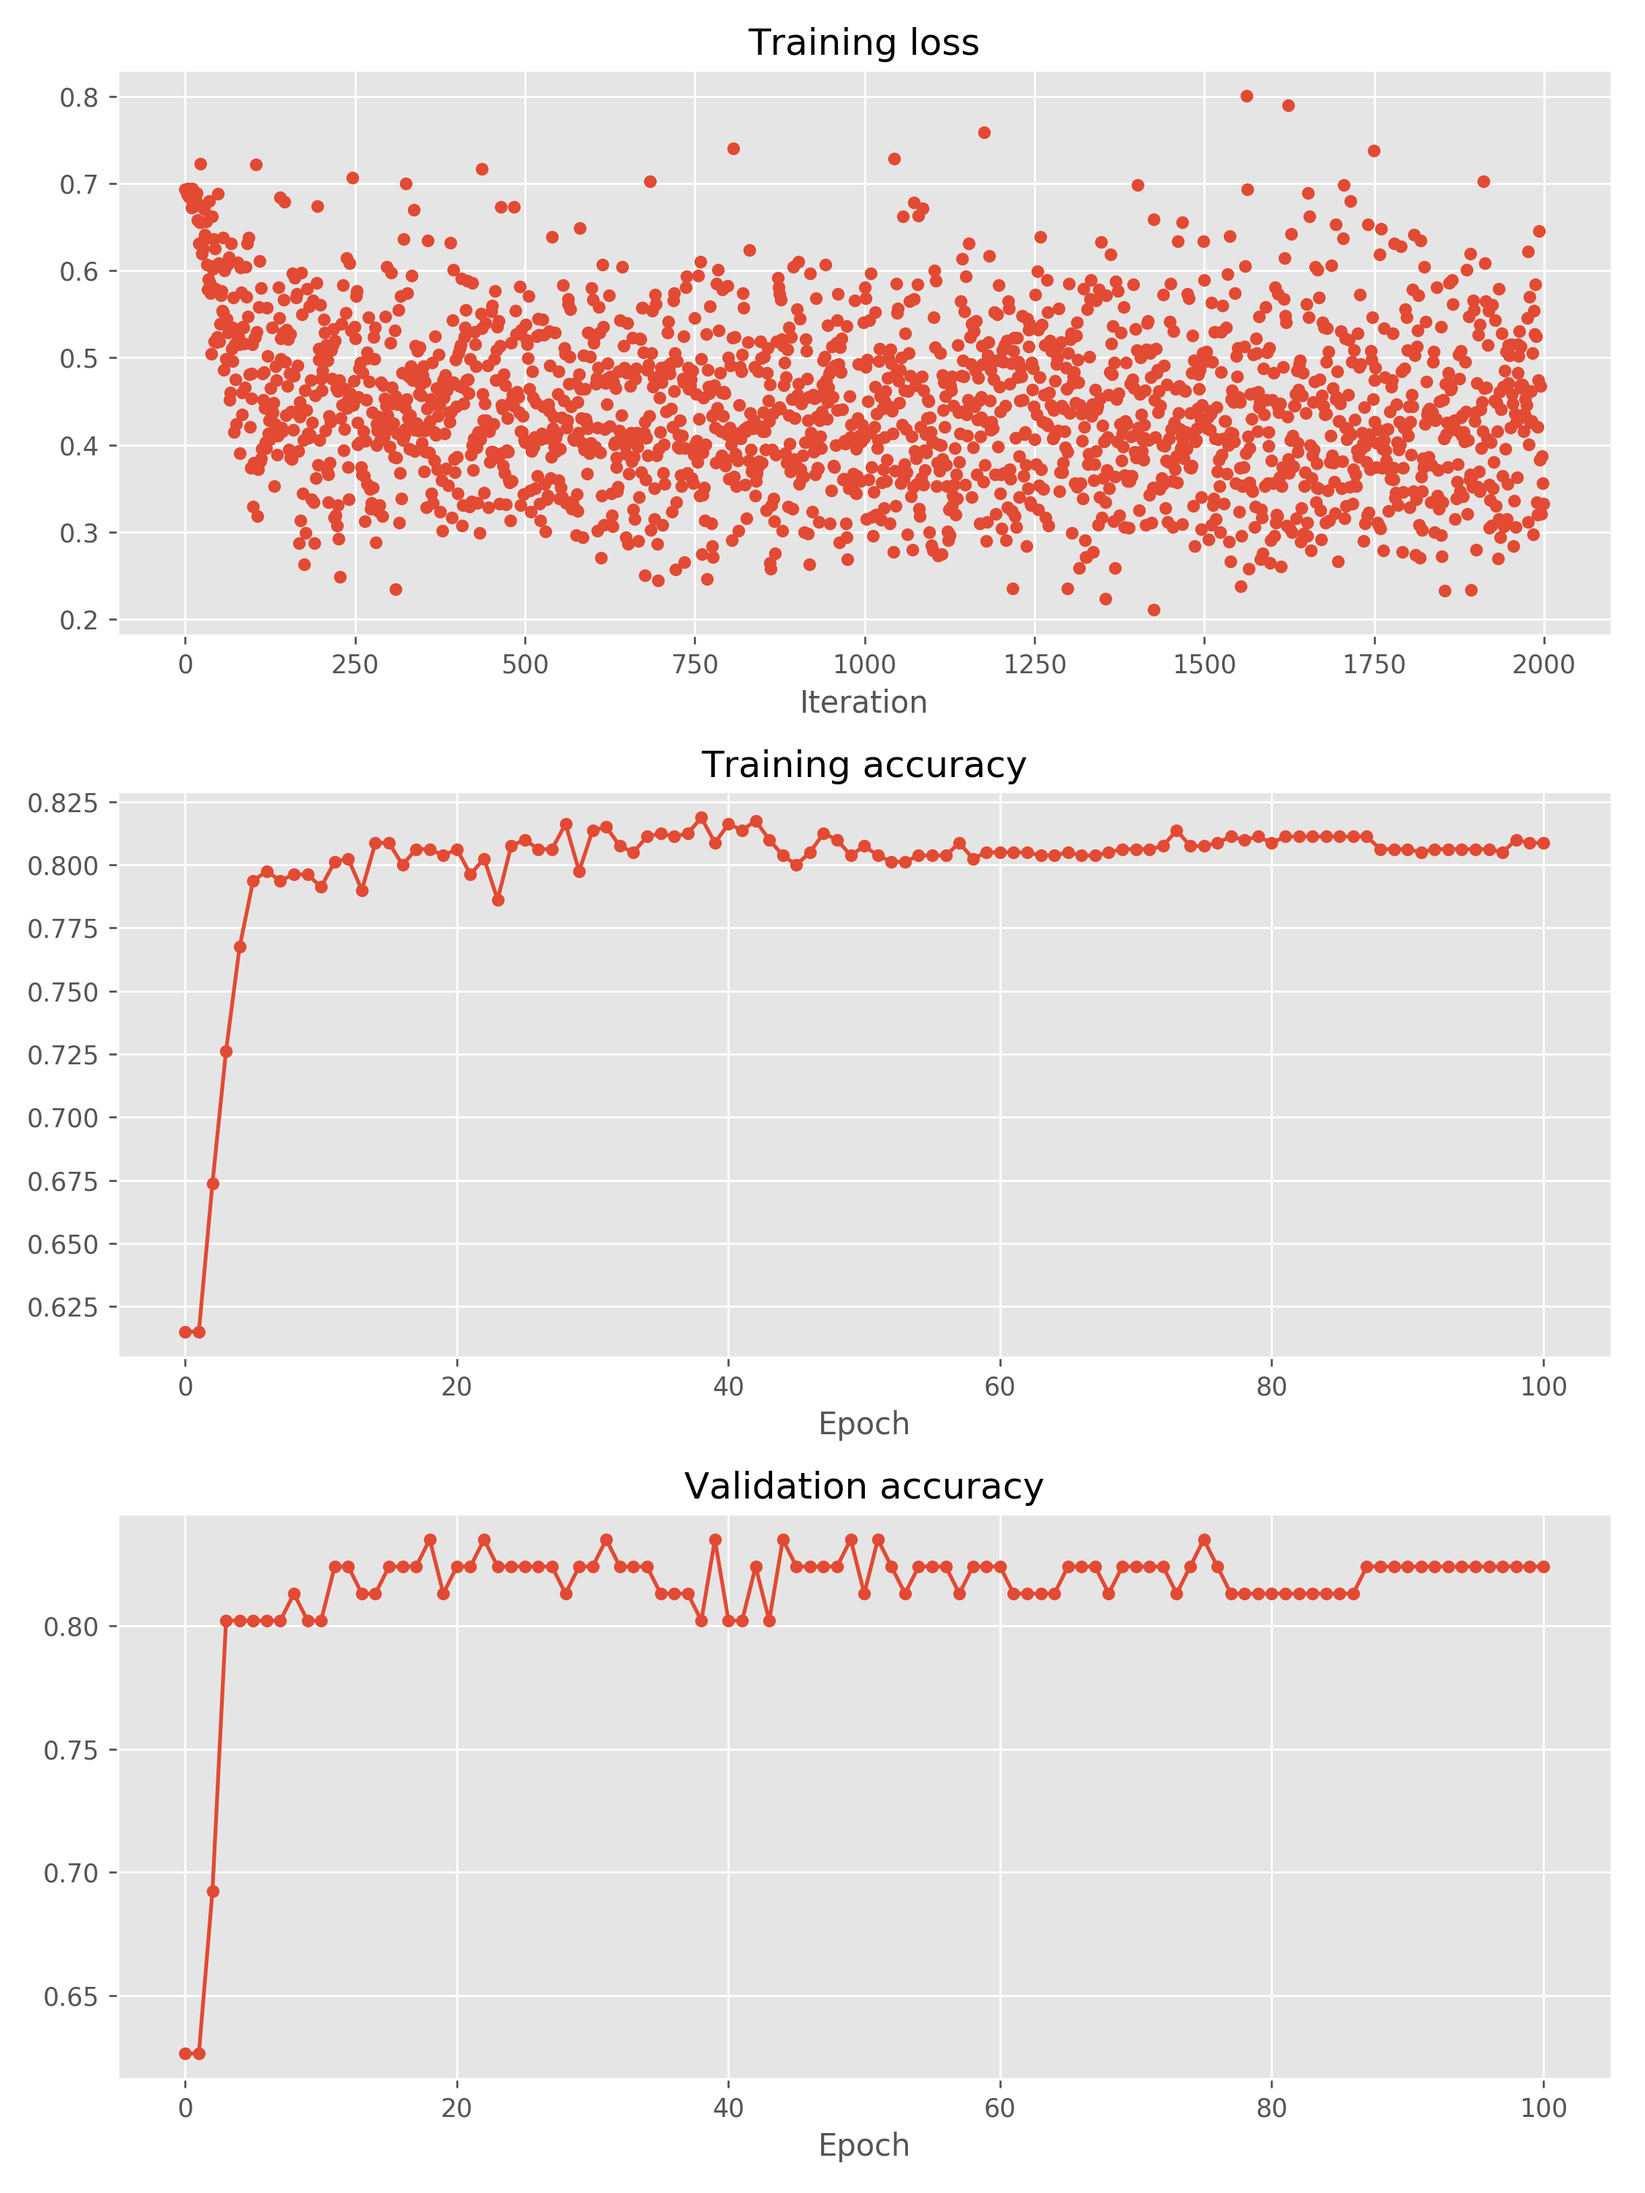
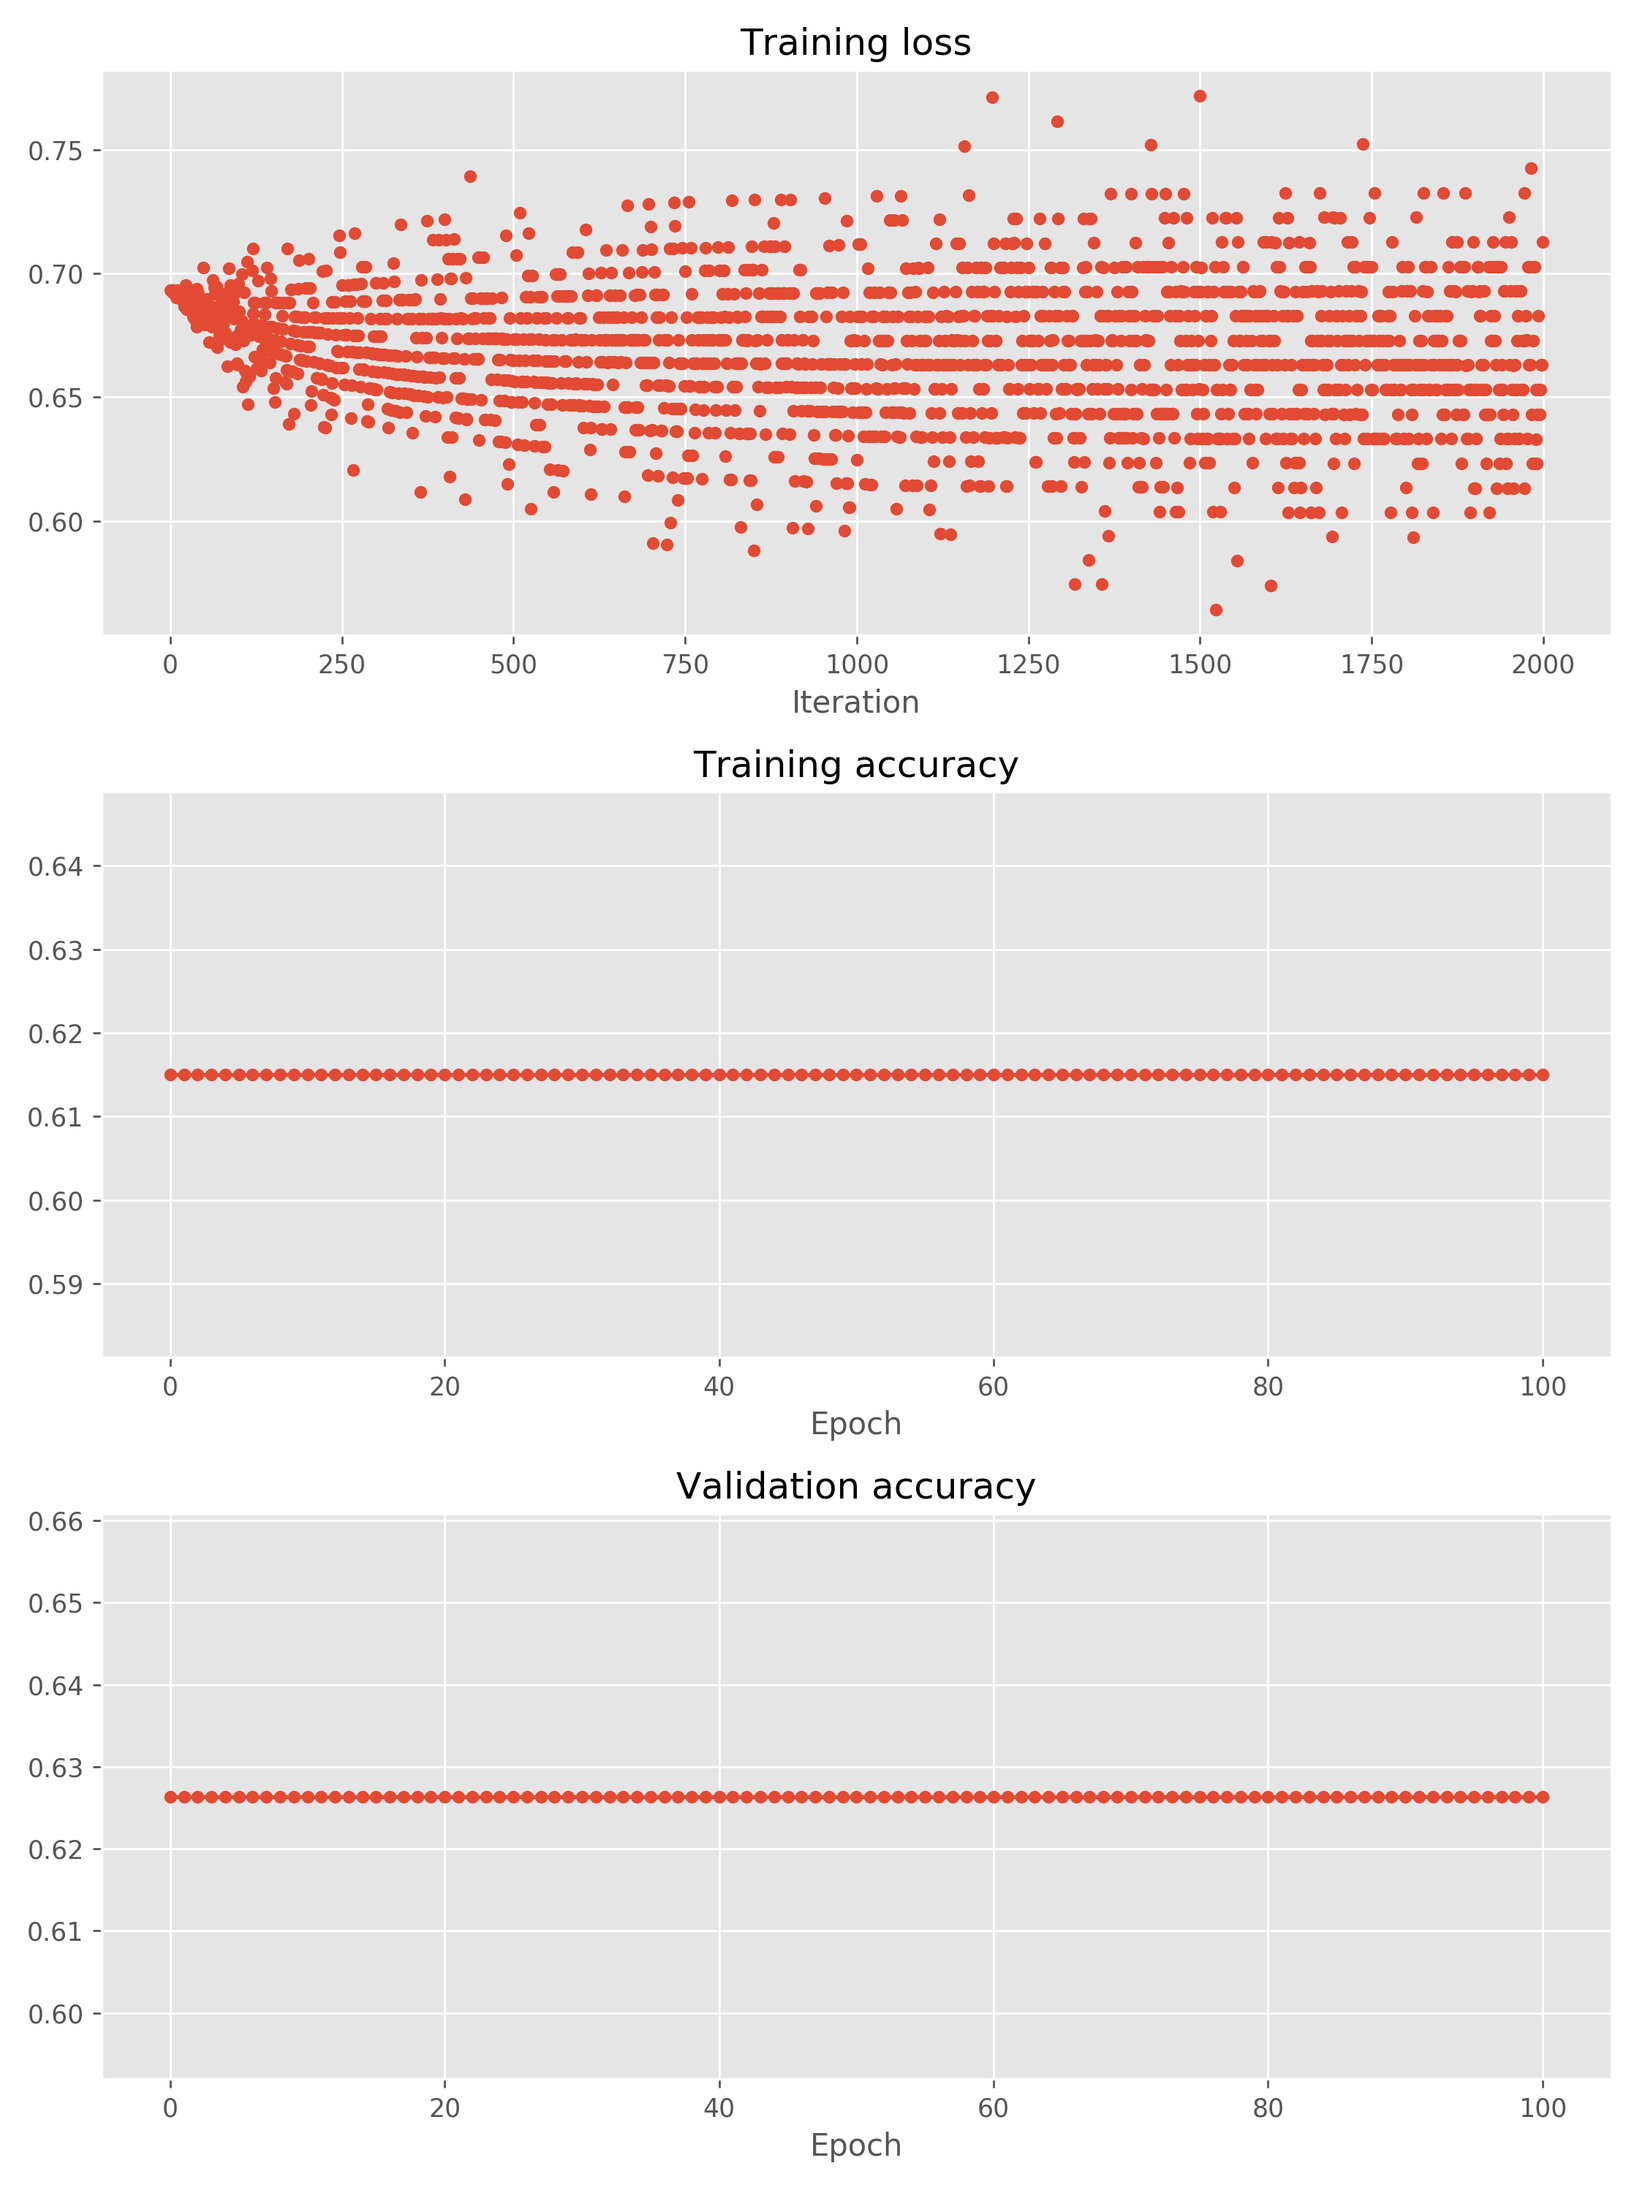
update learning curve

diff --git a/main.py b/main.py
@@ -7,7 +7,7 @@ from model import FullyConnectedNet
 
 np.random.seed(0)
 plt.style.use('ggplot')
-OPTIMIZER = 'adam'
+OPTIMIZER = 'sgd'
 NUM_EPOCH = 100
 
 
@@ -41,6 +41,7 @@ def plot(solver, filename):
 
     return
 
+
 def plot_solvers(solvers, filename):
     plt.subplot(3, 1, 1)
     plt.title('Training loss')
@@ -61,7 +62,7 @@ def plot_solvers(solvers, filename):
     plt.subplot(3, 1, 2)
     for s in solvers:
         plt.plot(s.train_acc_history, '-o', markersize=4, label=s.name)
-        
+
     plt.subplot(3, 1, 3)
     for s in solvers:
         plt.plot(s.val_acc_history, '-o', markersize=4, label=s.name)
@@ -78,6 +79,49 @@ def plot_solvers(solvers, filename):
 
 
 def problem1():
+    data_df = pd.read_csv('titanic.csv')
+    data = data_df.as_matrix()
+    train_acc, val_acc = [], []
+    for i in range(1, 9, 1):
+
+        x_train, y_train = data[:i*100, 1:], data[:i*100, 0]
+        x_test, y_test = data[i*100:, 1:], data[i*100:, 0]
+        data = {
+            'X_train': x_train,
+            'y_train': y_train.astype(int),
+            'X_val': x_test,
+            'y_val': y_test.astype(int),
+        }
+
+        model = FullyConnectedNet([3, 3],
+                                input_dim=6,
+                                num_classes=2,
+                                weight_scale=5e-2,
+                                reg=1e-4)
+        solver = Solver(
+            model,
+            data,
+            update_rule=OPTIMIZER,
+            optim_config={
+                'learning_rate': 0.01,
+            },
+            lr_decay=0.95,
+            num_epochs=NUM_EPOCH,
+            batch_size=40,
+            print_every=100,
+            verbose=False)
+        solver.train()
+        train_acc.append(solver.train_acc_history[-1])
+        val_acc.append(solver.val_acc_history[-1])
+
+    plt.plot(range(1, 9, 1), train_acc, '-o', label='training accuracy')
+    plt.plot(range(1, 9, 1), val_acc, '-o', label='validation accuracy')
+    plt.title('Learning Curve')
+    plt.xlabel('Accuracy')
+    plt.ylabel('Ratio of Dataset')
+    plt.legend()
+    plt.savefig(os.path.join('./result/', 'prob1.png'), dpi=250)
+
     return
 
 
@@ -172,10 +216,10 @@ def problem3():
     }
 
     model_3_nor = FullyConnectedNet([3, 3],
-                                input_dim=6,
-                                num_classes=2,
-                                weight_scale=5e-2,
-                                reg=1e-4)
+                                    input_dim=6,
+                                    num_classes=2,
+                                    weight_scale=5e-2,
+                                    reg=1e-4)
     solver_3_nor = Solver(
         model_3_nor,
         data,
@@ -234,7 +278,6 @@ def problem5():
     solver_5.train()
     plot(solver_5, 'prob5.png')
 
-
     data_df['Pclass'] = pd.Categorical(data_df['Pclass'])
     df_dummies = pd.get_dummies(data_df['Pclass'], prefix='category')
     data_df = pd.concat([data_df, df_dummies], axis=1)
@@ -253,10 +296,10 @@ def problem5():
     }
 
     model_5_cat = FullyConnectedNet([3, 3],
-                                input_dim=8,
-                                num_classes=2,
-                                weight_scale=5e-2,
-                                reg=1e-4)
+                                    input_dim=8,
+                                    num_classes=2,
+                                    weight_scale=5e-2,
+                                    reg=1e-4)
     solver_5_cat = Solver(
         model_5_cat,
         data,
@@ -281,7 +324,8 @@ def problem6():
 
 
 if __name__ == '__main__':
-    problem2()
-    problem3()
-    problem5()
+    problem1()
+    # problem2()
+    # problem3()
+    # problem5()
     pass
